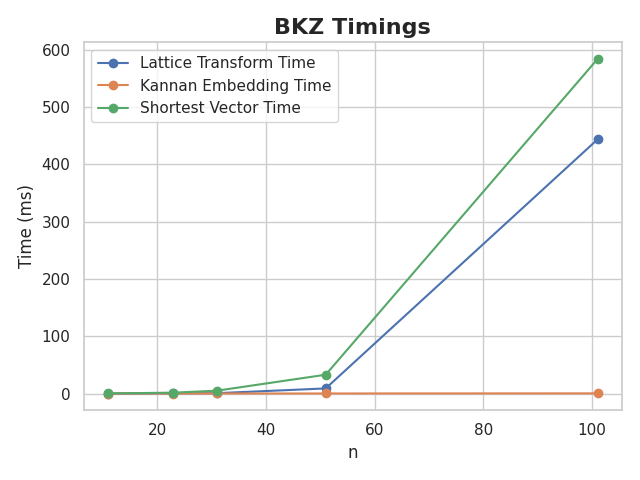
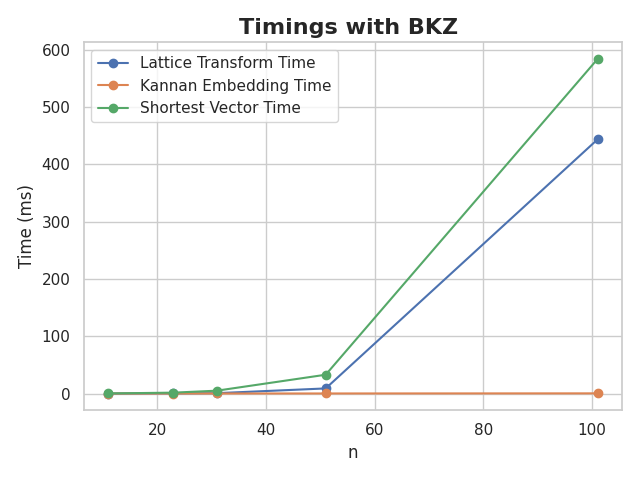
Gwag

Changed region(s): [[0.375, 0.0312, 0.7188, 0.0938]]

diff --git a/3BdecodingLee_plot.py b/3BdecodingLee_plot.py
@@ -92,7 +92,7 @@ def plot_q_influence(subfolder_path):
         sorted_data = sorted(data.items(), key=lambda x: x[0])  # Sort by q values
         for q, vectors in sorted_data:
             lee_percentages = calculate_percentages(vectors['good_vectors'], vectors['failed_vectors'], q)
-            label = f"q={q}, t={vectors['estimated_t']}"
+            label = f"p={q}, t={vectors['estimated_t']}"
             plt.scatter(list(lee_percentages.keys()), list(lee_percentages.values()), label=label, s=100, alpha=0.75, edgecolor='black')
 
         plt.xlabel('Lee Weight', fontsize=14)

diff --git a/plot_times.py b/plot_times.py
@@ -44,7 +44,7 @@ def plot_averages(averages, unit_label):
 
     plt.xlabel('n')
     plt.ylabel(f'Time ({unit_label})')
-    plt.title(f'{label} Timings',fontsize=16, weight='bold')
+    plt.title(f'Timings with {label} ',fontsize=16, weight='bold')
     plt.tight_layout()
     plt.legend()
     plt.grid(True)
